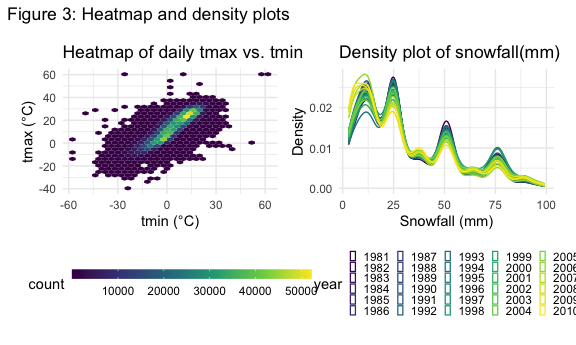
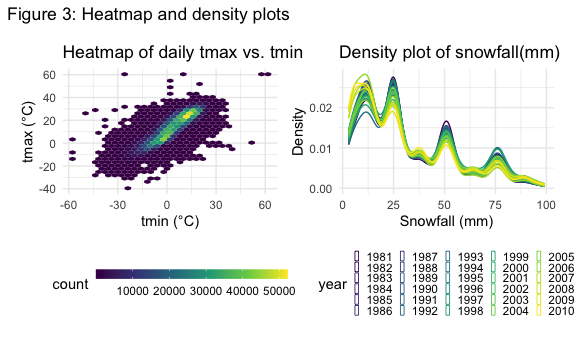
Problem 3 revise

Changed region(s): [[0.1875, 0.7246, 1.0, 0.9275], [0.0312, 0.7826, 0.1875, 0.8406]]

diff --git a/p8105_hw3_wf2270.md b/p8105_hw3_wf2270.md
@@ -317,7 +317,7 @@ temp_hex <- noaa_data %>%
     geom_hex() + 
     theme(legend.position = "bottom",
           legend.key.height = unit(0.1, "in"),
-          legend.key.width = unit(0.5, "in")) +
+          legend.key.width = unit(0.4, "in")) +
     labs(title = "Heatmap of daily tmax vs. tmin",
          x = "tmin (°C)", 
          y = "tmax (°C)") 
@@ -330,7 +330,7 @@ snow_density <- noaa_data %>%
   labs(title = "Density plot of snowfall(mm)",
          x = "Snowfall (mm)", 
          y = "Density") + 
-  theme(legend.key.size = unit(0.07, "in"))
+  theme(legend.key.size = unit(0.05, "in"))
 
 final_plot <- temp_hex + snow_density 
 
